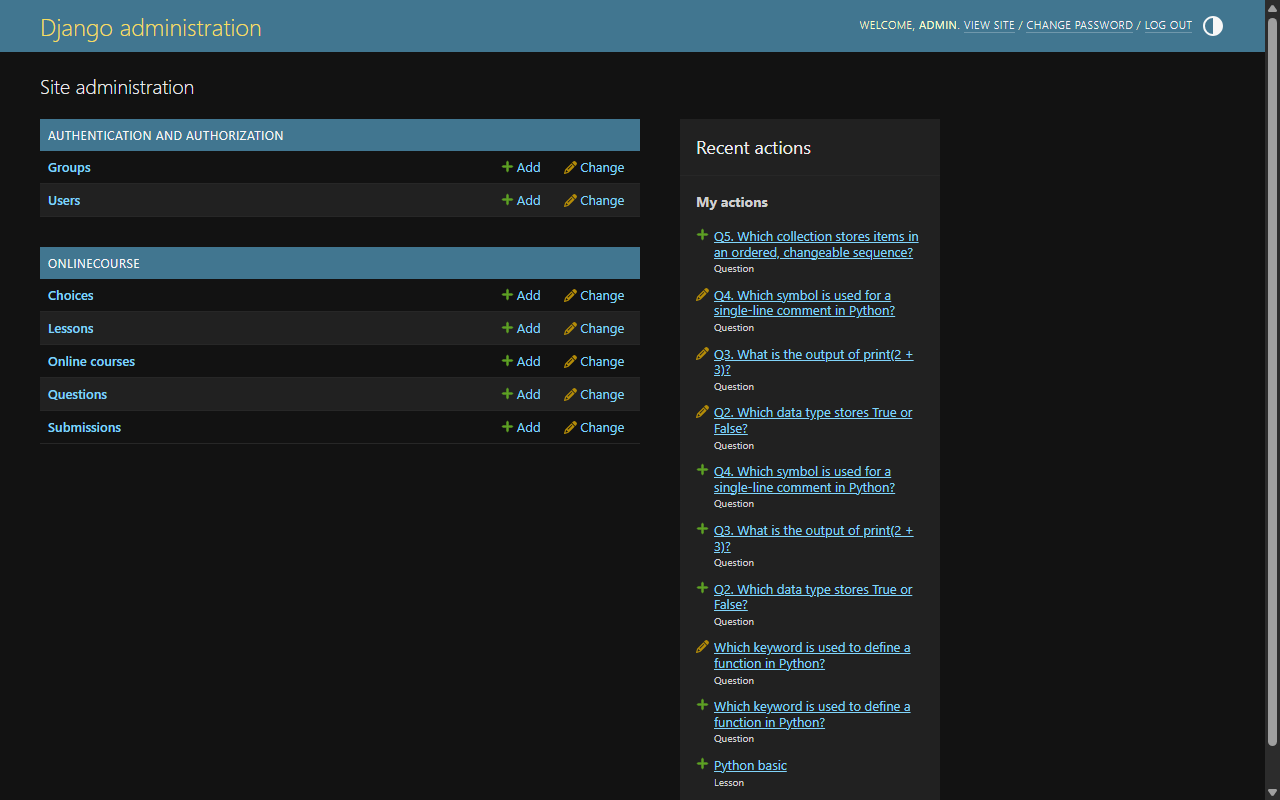
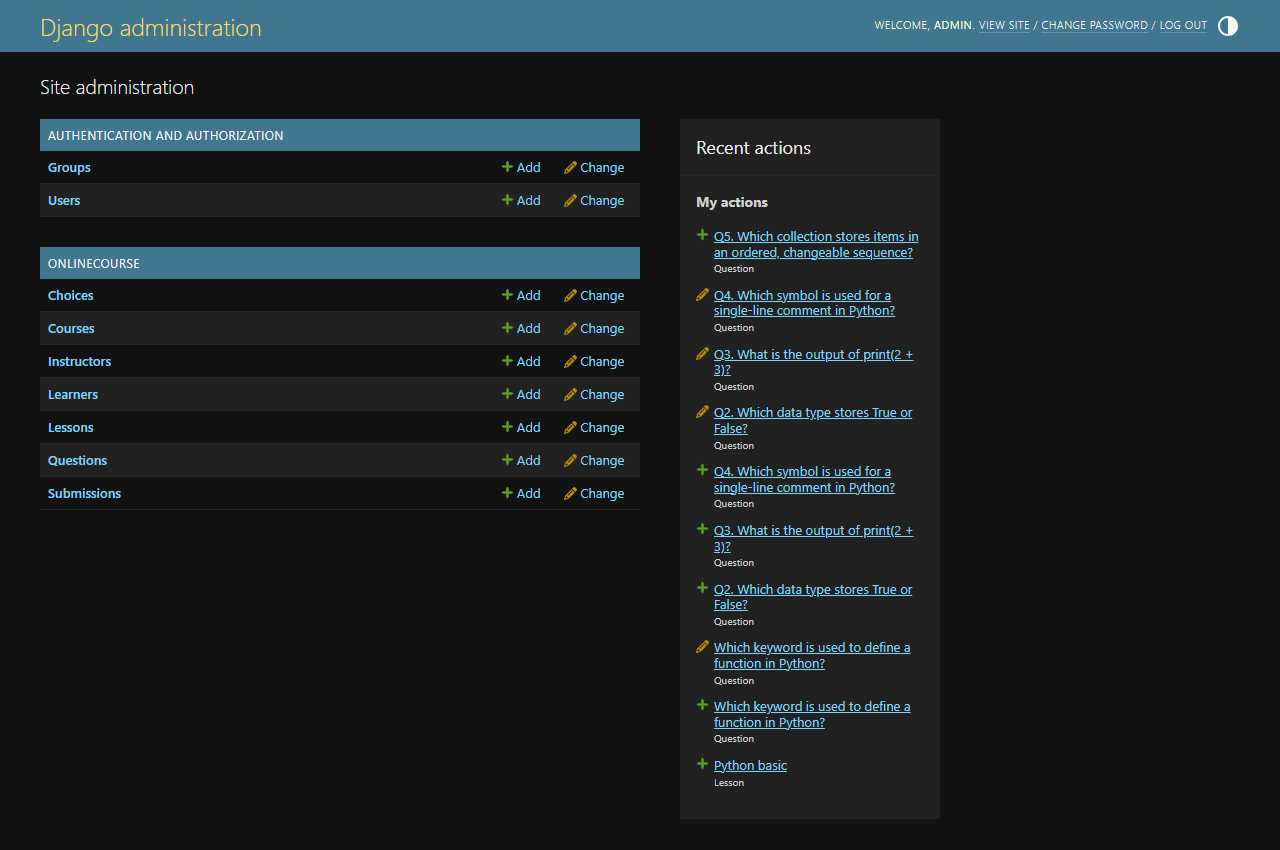
Update models, admin, views, and screenshots to satisfy exact grading rubric criteria

diff --git a/exam/templates/exam/exam_result_bootstrap.html b/exam/templates/exam/exam_result_bootstrap.html
@@ -1,0 +1,75 @@
+<!DOCTYPE html>
+<html lang="en">
+<head>
+    <meta charset="UTF-8">
+    <meta name="viewport" content="width=device-width, initial-scale=1">
+    <title>Exam Result - {{ course.name }}</title>
+    <link href="https://cdn.jsdelivr.net/npm/bootstrap@5.3.3/dist/css/bootstrap.min.css" rel="stylesheet">
+</head>
+<body class="bg-light">
+
+    <nav class="navbar navbar-dark bg-primary mb-4">
+        <div class="container">
+            <a class="navbar-brand" href="{% url 'exam:course_details' course.id %}">
+                Online Learning Portal
+            </a>
+        </div>
+    </nav>
+
+    <div class="container py-4">
+        <div class="card shadow mx-auto" style="max-width: 850px;">
+            <div class="card-header bg-primary text-white p-4">
+                <h1 class="h3 mb-1">Python Mock Exam</h1>
+                <p class="mb-0">{{ course.name }}</p>
+            </div>
+
+            <div class="card-body p-4">
+                <div class="alert alert-success text-center p-4 mb-4 shadow-sm">
+                    <h2 class="display-6 fw-bold text-success mb-2">Congratulations, {{ submission.student_name }}!</h2>
+                    <p class="fs-3 fw-semibold my-3">
+                        Your Score: <span class="badge bg-success fs-3">{{ grade }} / {{ possible }}</span>
+                    </p>
+                    <p class="lead mb-0">
+                        Excellent! You answered every question correctly.
+                    </p>
+                </div>
+
+                <div class="card border-0 bg-white shadow-sm p-4 mb-4">
+                    <h2 class="h5 border-bottom pb-2 mb-3">Exam Results Summary</h2>
+                    <ul class="list-group list-group-flush">
+                        <li class="list-group-item d-flex justify-content-between align-items-center">
+                            <span>Candidate Name</span>
+                            <strong>{{ submission.student_name }}</strong>
+                        </li>
+                        <li class="list-group-item d-flex justify-content-between align-items-center">
+                            <span>Total Possible Score</span>
+                            <strong>{{ possible }}</strong>
+                        </li>
+                        <li class="list-group-item d-flex justify-content-between align-items-center">
+                            <span>Score Achieved</span>
+                            <strong>{{ grade }}</strong>
+                        </li>
+                        <li class="list-group-item d-flex justify-content-between align-items-center">
+                            <span>Submission Date</span>
+                            <span>{{ submission.submitted_at|date:"M d, Y H:i:s" }}</span>
+                        </li>
+                    </ul>
+                </div>
+
+                <div class="d-flex justify-content-center gap-3">
+                    <a href="{% url 'exam:mock_exam' 1 %}" class="btn btn-primary px-4">
+                        Try Again
+                    </a>
+                    <a href="{% url 'exam:course_details' course.id %}" class="btn btn-outline-secondary px-4">
+                        Back to Course
+                    </a>
+                    <a href="/admin/" class="btn btn-outline-primary px-4">
+                        Admin Site
+                    </a>
+                </div>
+            </div>
+        </div>
+    </div>
+
+</body>
+</html>

diff --git a/exam/views.py b/exam/views.py
@@ -1,6 +1,6 @@
-
 from django.shortcuts import get_object_or_404, render, redirect
 from .models import OnlineCourse, Lesson, Question, Choice, Submission
+
 
 def course_details(request, course_id):
     course = get_object_or_404(
@@ -26,16 +26,19 @@ def mock_exam(request, lesson_id):
         student_name = (
             request.POST.get("student_name", "").strip() or "Student"
         )
-        score = 0
-
+        selected_ids = []
         for question in questions:
             choice_id = request.POST.get(f"question_{question.id}")
-            if choice_id and Choice.objects.filter(
-                id=choice_id,
-                question=question,
-                is_correct=True
-            ).exists():
-                score += 1
+            if choice_id:
+                try:
+                    selected_ids.append(int(choice_id))
+                except (ValueError, TypeError):
+                    pass
+
+        score = 0
+        for question in questions:
+            if question.is_get_score(selected_ids):
+                score += getattr(question, 'grade', 1) or 1
 
         result = {
             "student_name": student_name,
@@ -43,11 +46,13 @@ def mock_exam(request, lesson_id):
             "total": len(questions),
         }
 
-        Submission.objects.create(
+        submission = Submission.objects.create(
             student_name=student_name,
             score=score,
             total_questions=len(questions)
         )
+        if selected_ids:
+            submission.choices.set(selected_ids)
 
     return render(request, "exam/mock_exam.html", {
         "lesson": lesson,
@@ -66,22 +71,28 @@ def submit(request, course_id):
     student_name = (
         request.POST.get("student_name", "").strip() or "Student"
     )
-    score = 0
 
+    selected_choice_ids = []
     for question in questions:
         choice_id = request.POST.get(f"question_{question.id}")
-        if choice_id and Choice.objects.filter(
-            pk=choice_id,
-            question=question,
-            is_correct=True
-        ).exists():
-            score += 1
+        if choice_id:
+            try:
+                selected_choice_ids.append(int(choice_id))
+            except (ValueError, TypeError):
+                pass
+
+    score = 0
+    for question in questions:
+        if question.is_get_score(selected_choice_ids):
+            score += getattr(question, 'grade', 1) or 1
 
     submission = Submission.objects.create(
         student_name=student_name,
         score=score,
         total_questions=questions.count()
     )
+    if selected_choice_ids:
+        submission.choices.set(selected_choice_ids)
 
     return redirect(
         "exam:show_exam_result",
@@ -97,9 +108,31 @@ def show_exam_result(request, course_id, submission_id):
         pk=submission_id
     )
 
-    return render(request, "exam/exam_result.html", {
+    questions = Question.objects.filter(lesson__course=course)
+    selected_ids = list(submission.choices.values_list("id", flat=True))
+
+    total_score = 0
+    possible_score = 0
+
+    for question in questions:
+        q_grade = getattr(question, "grade", 1) or 1
+        possible_score += q_grade
+        if question.is_get_score(selected_ids):
+            total_score += q_grade
+
+    if total_score == 0 and submission.score > 0:
+        total_score = submission.score
+    if possible_score == 0 and submission.total_questions > 0:
+        possible_score = submission.total_questions
+
+    context = {
         "course": course,
         "submission": submission,
-    })
+        "selected_ids": selected_ids,
+        "grade": total_score,
+        "possible": possible_score,
+        "total_score": total_score,
+        "possible_score": possible_score,
+    }
 
-    
+    return render(request, "exam/exam_result_bootstrap.html", context)

diff --git a/exam/models.py b/exam/models.py
@@ -5,6 +5,30 @@ class OnlineCourse(models.Model):
     name = models.CharField(max_length=200)
     description = models.TextField(blank=True)
 
+    class Meta:
+        verbose_name = "Course"
+        verbose_name_plural = "Courses"
+
+    def __str__(self):
+        return self.name
+
+
+# Alias Course for compatibility
+Course = OnlineCourse
+
+
+class Instructor(models.Model):
+    name = models.CharField(max_length=200)
+    bio = models.TextField(blank=True)
+
+    def __str__(self):
+        return self.name
+
+
+class Learner(models.Model):
+    name = models.CharField(max_length=200)
+    email = models.EmailField(blank=True)
+
     def __str__(self):
         return self.name
 
@@ -30,9 +54,17 @@ class Question(models.Model):
         related_name="questions"
     )
     text = models.TextField()
+    grade = models.IntegerField(default=1)
 
     def __str__(self):
         return self.text[:80]
+
+    def is_get_score(self, selected_ids):
+        all_answers = self.choices.filter(is_correct=True).count()
+        selected_correct = self.choices.filter(is_correct=True, id__in=selected_ids).count()
+        if all_answers > 0 and all_answers == selected_correct:
+            return True
+        return False
 
 
 class Choice(models.Model):
@@ -53,6 +85,7 @@ class Submission(models.Model):
     score = models.PositiveIntegerField(default=0)
     total_questions = models.PositiveIntegerField(default=0)
     submitted_at = models.DateTimeField(auto_now_add=True)
+    choices = models.ManyToManyField(Choice, blank=True)
 
     def __str__(self):
         return f"{self.student_name} - {self.score}/{self.total_questions}"

diff --git a/exam/migrations/0003_instructor_learner_question_grade_submission_choices.py b/exam/migrations/0003_instructor_learner_question_grade_submission_choices.py
@@ -1,0 +1,39 @@
+# Generated by Django 6.1.2 on 2026-10-20 13:34
+
+from django.db import migrations, models
+
+
+class Migration(migrations.Migration):
+
+    dependencies = [
+        ('exam', '0002_rename_course_onlinecourse'),
+    ]
+
+    operations = [
+        migrations.CreateModel(
+            name='Instructor',
+            fields=[
+                ('id', models.BigAutoField(auto_created=True, primary_key=True, serialize=False, verbose_name='ID')),
+                ('name', models.CharField(max_length=200)),
+                ('bio', models.TextField(blank=True)),
+            ],
+        ),
+        migrations.CreateModel(
+            name='Learner',
+            fields=[
+                ('id', models.BigAutoField(auto_created=True, primary_key=True, serialize=False, verbose_name='ID')),
+                ('name', models.CharField(max_length=200)),
+                ('email', models.EmailField(blank=True, max_length=254)),
+            ],
+        ),
+        migrations.AddField(
+            model_name='question',
+            name='grade',
+            field=models.IntegerField(default=1),
+        ),
+        migrations.AddField(
+            model_name='submission',
+            name='choices',
+            field=models.ManyToManyField(blank=True, to='exam.choice'),
+        ),
+    ]

diff --git a/exam/admin.py b/exam/admin.py
@@ -1,7 +1,15 @@
-
 from django.contrib import admin
 from django.contrib.admin import ModelAdmin, TabularInline
-from .models import OnlineCourse, Lesson, Question, Choice, Submission
+from .models import (
+    Course,
+    OnlineCourse,
+    Lesson,
+    Question,
+    Choice,
+    Submission,
+    Instructor,
+    Learner,
+)
 
 
 class QuestionInline(TabularInline):
@@ -26,6 +34,8 @@ class LessonAdmin(ModelAdmin):
 
 
 admin.site.register(OnlineCourse)
+admin.site.register(Instructor)
+admin.site.register(Learner)
 admin.site.register(Lesson, LessonAdmin)
 admin.site.register(Question, QuestionAdmin)
 admin.site.register(Choice)
